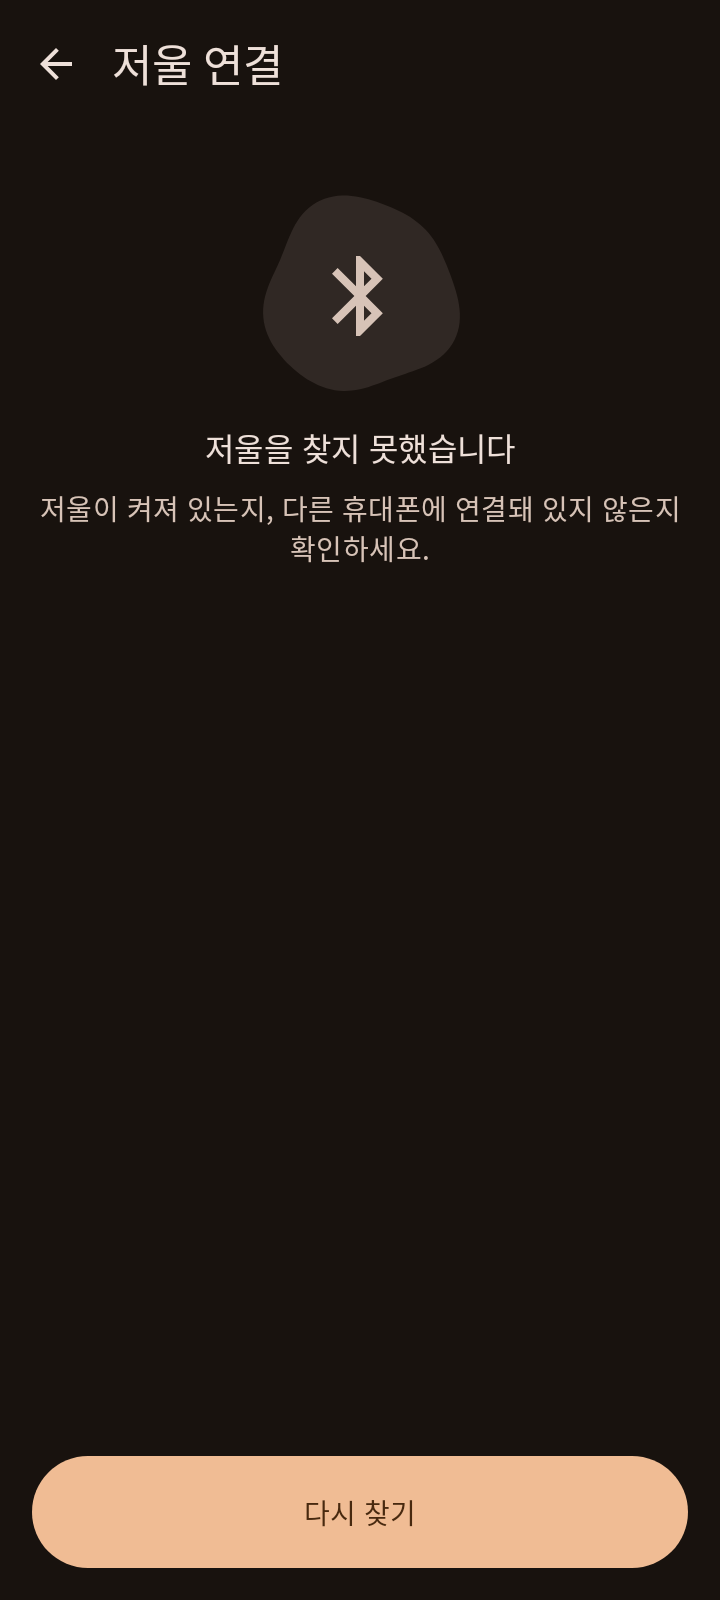
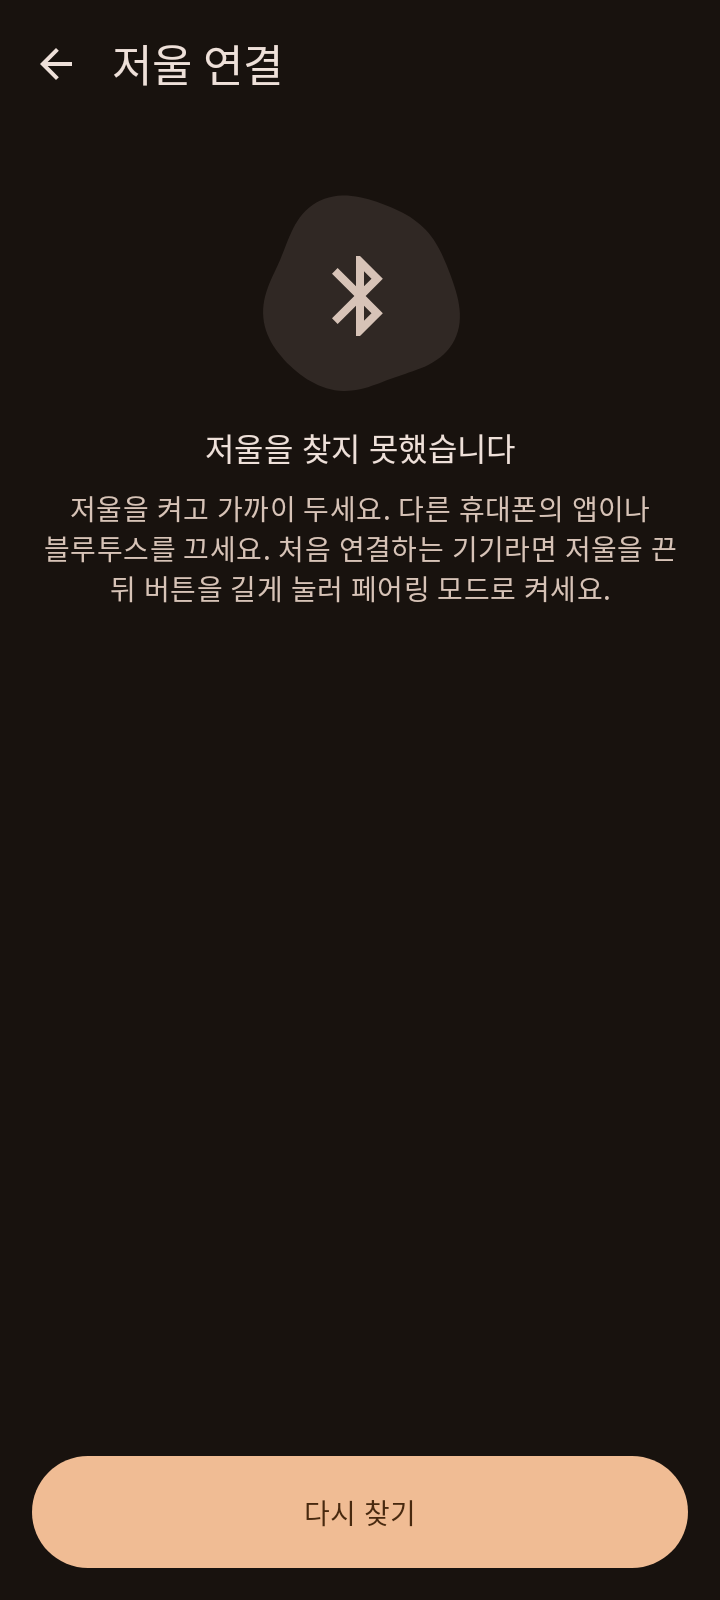
fix(ble): 검색 결과가 없을 때 필터 없는 스캔으로 전환하고 안내 문구 추가
- 오프로드 필터를 지원하지 않는 기기는 처음부터 필터 없이 스캔하고 앱 판정(서비스 UUID FFF0 또는 제조사 0xFFFF)으로 거른다. 지원 기기는 6초간 후보가 없으면 필터 없는 스캔으로 전환한다(FIX-10, 방어 코드 — 실기기에서는 아직 실행되지 않음).
- 스캔 시작·전환·종료(결과 수)를 TimemoreBle 로그로 남긴다.
- 검색 결과 없음 화면에 다른 휴대폰 앱·블루투스 끄기와 페어링 모드 안내를 추가한다.
- 실기기 결과 추가: Fold8(Android 17) 수정판 재확인(들어 올림·붓기·유량·권한 2건 통과), Lenovo TB-9707F(Android 12) 검색·연결 통과. 앞선 검색 0건은 다른 기기가 저울을 잡고 있던 상태로 추정하며 가설을 정정해 기록.

검증: 단위 테스트 689건(debug+release 합계) 통과, verifyRoborazziDebug·lint 통과.

Changed region(s): [[0.0611, 0.3125, 0.9472, 0.375]]

diff --git a/core/ble/src/main/kotlin/com/timemoredot/ble/BleScaleClient.kt b/core/ble/src/main/kotlin/com/timemoredot/ble/BleScaleClient.kt
@@ -110,6 +110,8 @@ class BleScaleClient internal constructor(
     private var scannerRunning = false
     private var lastScanStartNanos: Long? = null
     private val advLogged = mutableSetOf<String>()
+    private var scanHits = 0                  // 이번 스캐너 시작 뒤 받은 결과 수(후보 아닌 것 포함), 진단 로그용
+    private var unfilteredScan = false        // F-TAB-1: 한 번 전환하면 이 프로세스 동안 필터 없이. 매 스캔 재시작으로 30 s 5회 제한을 넘지 않게
 
     init {
         _connection.value = blockedState(forScan = true) ?: ConnectionState.Idle   // 5.4: 생성 때 블루투스·권한·위치 확인
@@ -198,18 +200,21 @@ class BleScaleClient internal constructor(
         advLogged.clear()
         _connection.value = ConnectionState.Scanning
         scanJob = scope.launch {
-            // 30 s에 5회 제한(android-ble 2절): 직전 실제 시작 6 s 안이면 늦춘다
-            lastScanStartNanos?.let { delay((it + SCAN_RESTART_GAP_NANOS - clock.nowNanos()) / NANOS_PER_MS) }
-            lastScanStartNanos = clock.nowNanos()
-            try {
-                scannerRunning = true
-                scanner.start(::onScanHit, ::onScanFailed)
-            } catch (e: SecurityException) {
-                scannerRunning = false
-                _connection.value = ConnectionState.PermissionMissing
-                return@launch
+            // 6절 F-TAB-1: 오프로드 필터가 없거나 이미 전환했으면 처음부터 필터 없이
+            val filtered = !unfilteredScan && scanner.offloadedFilteringSupported
+            if (!launchScanner(filtered)) return@launch
+            if (filtered) {
+                delay(SCAN_FALLBACK_MS)
+                if (_scanResults.value.isEmpty()) {
+                    log { FrameLogFormat.ev("scan switch filter=off: 필터 스캔 ${SCAN_FALLBACK_MS} ms 후보 0") }
+                    unfilteredScan = true
+                    haltScanner()
+                    if (!launchScanner(filtered = false)) return@launch
+                }
+                delay(SCAN_DURATION_MS - SCAN_FALLBACK_MS)
+            } else {
+                delay(SCAN_DURATION_MS)
             }
-            delay(SCAN_DURATION_MS)
             stopScanner()
             _connection.value = if (_scanResults.value.isEmpty()) ConnectionState.Failed(FailureReason.NoDeviceFound) else ConnectionState.Idle
         }
@@ -220,11 +225,34 @@ class BleScaleClient internal constructor(
         if (_connection.value == ConnectionState.Scanning) _connection.value = ConnectionState.Idle
     }
 
+    /** 30 s에 5회 제한(android-ble 2절): 직전 실제 시작 6 s 안이면 늦춘다. 권한이 없으면 false. */
+    private suspend fun launchScanner(filtered: Boolean): Boolean {
+        lastScanStartNanos?.let { delay((it + SCAN_RESTART_GAP_NANOS - clock.nowNanos()) / NANOS_PER_MS) }
+        lastScanStartNanos = clock.nowNanos()
+        scanHits = 0
+        log { FrameLogFormat.ev("scan start filter=${if (filtered) "on" else "off"} offload=${scanner.offloadedFilteringSupported}") }
+        try {
+            scannerRunning = true
+            scanner.start(filtered, ::onScanHit, ::onScanFailed)
+        } catch (e: SecurityException) {
+            scannerRunning = false
+            _connection.value = ConnectionState.PermissionMissing
+            return false
+        }
+        return true
+    }
+
     private fun stopScanner() {
         scanJob?.cancel()
         scanJob = null
+        haltScanner()
+    }
+
+    /** 스캔 작업은 두고 스캐너만 멈춘다(전환에서도 쓴다). */
+    private fun haltScanner() {
         if (!scannerRunning) return
         scannerRunning = false
+        log { FrameLogFormat.ev("scan stop hits=$scanHits candidates=${_scanResults.value.size}") }
         try {
             scanner.stop()
         } catch (e: SecurityException) {
@@ -234,6 +262,7 @@ class BleScaleClient internal constructor(
 
     private fun onScanHit(hit: ScanHit) {
         if (!scannerRunning) return
+        scanHits++
         val adv = hit.advertisement
         if (!isScaleCandidate(adv)) return   // 필터 구현 차이 방어
         if (advLogged.add(hit.address)) {
@@ -564,6 +593,7 @@ class BleScaleClient internal constructor(
         const val GATT_OP_TIMEOUT_MS = 5_000L
         const val SCAN_DURATION_MS = 10_000L
         const val SCAN_RESTART_GAP_NANOS = 6_000_000_000L
+        const val SCAN_FALLBACK_MS = 6_000L   // 재시작 간격(6 s)과 같게 해 전환이 늦춰지지 않는다
         const val NANOS_PER_MS = 1_000_000L
         const val MAX_RECONNECT_ATTEMPTS = 10
         const val GATT_ERROR_133 = 133

diff --git a/core/ble/src/test/kotlin/com/timemoredot/ble/BleScanTest.kt b/core/ble/src/test/kotlin/com/timemoredot/ble/BleScanTest.kt
@@ -96,6 +96,58 @@ class BleScanTest {
         assertTrue(!h.scanner.running)
     }
 
+    // F-TAB-1: 오프로드 필터 미지원(Lenovo TB-9707F, mMaxScanFilters 0)은 처음부터 필터 없이, 거르기는 isScaleCandidate
+    @Test fun offloadUnsupportedScansUnfilteredAndFiltersInApp() = runTest {
+        val h = Harness(this)
+        h.scanner.offloadedFilteringSupported = false
+        h.client.startScan()
+        runCurrent()
+        assertEquals(listOf(false), h.scanner.startFiltered)
+        assertTrue(h.logs.contains("EV scan start filter=off offload=false"))
+        h.scanner.hit(ADDR_B, name = "Headphones", mfr = null)                            // 다른 기기: 버림
+        h.scanner.hit(ADDR_A, name = "TIMEMORE_Dot", mfr = null, uuids = listOf(SCALE_SERVICE_UUID))   // (a) 서비스 UUID
+        assertEquals(listOf(ADDR_A), h.client.scanResults.value.map { it.address })
+        h.advance(10_000)
+        assertEquals(ConnectionState.Idle, h.state)
+        assertEquals(listOf(false), h.scanner.startFiltered)   // 전환 없음
+        assertTrue(h.logs.contains("EV scan stop hits=2 candidates=1"))
+    }
+
+    @Test fun filteredScanWithoutCandidateSwitchesToUnfilteredAt6s() = runTest {
+        val h = Harness(this)
+        h.client.startScan()
+        runCurrent()
+        h.advance(5_999)
+        assertEquals(listOf(true), h.scanner.startFiltered)
+        h.advance(1)
+        assertEquals(listOf(true, false), h.scanner.startFiltered)
+        assertEquals(listOf(0L, 6_000L), h.scanner.startTimesMs)   // 재시작 간격 6 s를 지킨다
+        assertTrue(h.logs.contains("EV scan stop hits=0 candidates=0"))
+        assertTrue(h.logs.any { it.startsWith("EV scan switch filter=off") })
+        assertTrue(h.scanner.running)
+        h.scanner.hit(ADDR_A, null)   // (b) 제조사 01 01
+        h.advance(4_000)
+        assertEquals(ConnectionState.Idle, h.state)
+        assertEquals(1, h.client.scanResults.value.size)
+        // 한 번 전환하면 다음 스캔은 처음부터 필터 없이(재시작 1회로 끝)
+        h.client.startScan()
+        h.advance(12_000)   // 직전 시작(6 s)에서 6 s 뒤인 12 s에 시작해 22 s에 끝난다
+        assertEquals(listOf(true, false, false), h.scanner.startFiltered)
+        assertEquals(listOf(0L, 6_000L, 12_000L), h.scanner.startTimesMs)
+        assertEquals(ConnectionState.Failed(FailureReason.NoDeviceFound), h.state)
+    }
+
+    @Test fun filteredScanWithCandidateDoesNotSwitch() = runTest {
+        val h = Harness(this)
+        h.client.startScan()
+        runCurrent()
+        h.advance(1_000)
+        h.scanner.hit(ADDR_A, null)
+        h.advance(9_000)
+        assertEquals(listOf(true), h.scanner.startFiltered)
+        assertEquals(ConnectionState.Idle, h.state)
+    }
+
     @Test fun scanEndsIdleWithCandidates() = runTest {
         val h = Harness(this)
         h.client.startScan()

diff --git a/core/ble/src/main/kotlin/com/timemoredot/ble/BleScanner.kt b/core/ble/src/main/kotlin/com/timemoredot/ble/BleScanner.kt
@@ -20,7 +20,10 @@ internal data class ScanHit(val address: String, val rssi: Int, val advertisemen
 /** 스캐너 경계. 테스트는 가짜를 쓴다. 권한이 없으면 SecurityException을 던진다(BleScaleClient가 PermissionMissing으로 바꾼다).
  *  콜백은 메인 스레드에서 온다(ScanCallback 기본). */
 internal interface BleScanner {
-    fun start(onResult: (ScanHit) -> Unit, onFailed: (Int) -> Unit)
+    /** BluetoothAdapter.isOffloadedFilteringSupported. false인 기기(Lenovo TB-9707F)는 필터 스캔 결과가 0건이었다(F-TAB-1). */
+    val offloadedFilteringSupported: Boolean
+    /** filtered = false면 필터 없이 스캔한다. 거르기는 BleScaleClient의 isScaleCandidate가 한다. */
+    fun start(filtered: Boolean, onResult: (ScanHit) -> Unit, onFailed: (Int) -> Unit)
     fun stop()
 }
 
@@ -37,16 +40,20 @@ internal fun scaleScanFilters(): List<ScanFilter> = listOf(
 internal class AndroidBleScanner(private val context: Context) : BleScanner {
     private var callback: ScanCallback? = null
 
-    private fun leScanner() = context.getSystemService(BluetoothManager::class.java)?.adapter?.bluetoothLeScanner
+    private fun adapter() = context.getSystemService(BluetoothManager::class.java)?.adapter
+    private fun leScanner() = adapter()?.bluetoothLeScanner
 
-    override fun start(onResult: (ScanHit) -> Unit, onFailed: (Int) -> Unit) {
+    override val offloadedFilteringSupported: Boolean get() = adapter()?.isOffloadedFilteringSupported == true
+
+    override fun start(filtered: Boolean, onResult: (ScanHit) -> Unit, onFailed: (Int) -> Unit) {
         val scanner = leScanner() ?: return onFailed(-1)   // 블루투스 꺼짐
         val cb = object : ScanCallback() {
             override fun onScanResult(callbackType: Int, result: ScanResult) = onResult(result.toHit())
             override fun onScanFailed(errorCode: Int) = onFailed(errorCode)
         }
         val settings = ScanSettings.Builder().setScanMode(ScanSettings.SCAN_MODE_LOW_LATENCY).build()
-        scanner.startScan(scaleScanFilters(), settings, cb)
+        // 필터 없는 스캔은 화면이 꺼지면 시스템이 멈춘다(Android 8.1+). 스캔은 S2 화면에서만 하므로 상관없다
+        scanner.startScan(if (filtered) scaleScanFilters() else null, settings, cb)
         callback = cb
     }
 

diff --git a/app/src/main/java/com/timemoredot/app/ui/connect/ConnectScreen.kt b/app/src/main/java/com/timemoredot/app/ui/connect/ConnectScreen.kt
@@ -220,7 +220,8 @@ private fun Header(
         ConnectionUi.LocationOff -> EmptyState(AppIcons.BluetoothDisabled, "위치 서비스를 켜야 저울을 찾을 수 있습니다", actionLabel = "위치 설정 열기", onAction = onOpenLocationSettings)
         ConnectionUi.ScanEmpty -> EmptyState(
             AppIcons.Bluetooth, "저울을 찾지 못했습니다",
-            description = "저울이 켜져 있는지, 다른 휴대폰에 연결돼 있지 않은지 확인하세요.",
+            // F-TAB-2: 다른 폰이 연결을 잡고 있거나 화이트리스트 방송이면 새 기기에서는 보이지 않는다
+            description = "저울을 켜고 가까이 두세요. 다른 휴대폰의 앱이나 블루투스를 끄세요. 처음 연결하는 기기라면 저울을 끈 뒤 버튼을 길게 눌러 페어링 모드로 켜세요.",
         )
         ConnectionUi.ScanFailed -> StatusBanner(BannerKind.Error, "찾기를 시작하지 못했습니다. 블루투스를 껐다 켜 보세요.", pad)
         ConnectionUi.NoDevice, ConnectionUi.Disconnected -> Hint("저울을 켜고 휴대폰 가까이 둔 뒤 찾기를 누르세요.")

diff --git a/core/ble/src/test/kotlin/com/timemoredot/ble/Fakes.kt b/core/ble/src/test/kotlin/com/timemoredot/ble/Fakes.kt
@@ -153,15 +153,18 @@ internal class FakeEnvironment : BleEnvironment {
 
 internal class FakeScanner(private val nowMs: () -> Long) : BleScanner {
     val startTimesMs = mutableListOf<Long>()
+    val startFiltered = mutableListOf<Boolean>()
+    override var offloadedFilteringSupported = true
     var running = false
         private set
     var throwSecurity = false
     private var onResult: ((ScanHit) -> Unit)? = null
     private var onFailed: ((Int) -> Unit)? = null
 
-    override fun start(onResult: (ScanHit) -> Unit, onFailed: (Int) -> Unit) {
+    override fun start(filtered: Boolean, onResult: (ScanHit) -> Unit, onFailed: (Int) -> Unit) {
         if (throwSecurity) throw SecurityException("scan")
         startTimesMs += nowMs()
+        startFiltered += filtered
         running = true
         this.onResult = onResult
         this.onFailed = onFailed

diff --git a/core/ble/src/debug/kotlin/com/timemoredot/ble/demo/DemoScale.kt b/core/ble/src/debug/kotlin/com/timemoredot/ble/demo/DemoScale.kt
@@ -52,8 +52,9 @@ object DemoScale {
 /** 300 ms 뒤 DemoScenario 6개를 광고 하나씩으로 낸다(isScaleCandidate (b)를 지난다). 콜백은 scope 디스패처. */
 internal class DemoScanner(private val scope: CoroutineScope) : BleScanner {
     private var job: Job? = null
+    override val offloadedFilteringSupported = true
 
-    override fun start(onResult: (ScanHit) -> Unit, onFailed: (Int) -> Unit) {
+    override fun start(filtered: Boolean, onResult: (ScanHit) -> Unit, onFailed: (Int) -> Unit) {
         job?.cancel()
         job = scope.launch {
             delay(300)

diff --git a/docs/spec/ui-design.md b/docs/spec/ui-design.md
@@ -163,7 +163,7 @@ S9 상단 바 "CSV 내보내기"(`download`) → `ACTION_CREATE_DOCUMENT`(파일
 - 왼쪽 칸(남은 가로의 50%): 상태 줄, 위 배너(`Idle`), 무게(밸브 칸이 있으면 무게 줄 왼쪽에. 배치 판정은 왼쪽 칸 안쪽 너비로 한다, 4.11), 지표 줄을 `verticalScroll` 열에 넣고, 그 아래에 아래 배너(7a)와 동작 줄을 고정한다. 동작 줄은 왼쪽 칸 맨 아래에 붙는다. 가로 360 × 800 기기의 세로 높이(약 336 dp)는 배너 없이 글꼴 1.0에서도 왼쪽 칸 내용(약 360 dp)보다 작으므로, 무게 영역이 스크롤 열의 남은 높이를 받아(최소 72 dp) 무게 글자 크기를 너비와 함께 높이로도 4 sp씩 줄인다(최소 40 sp, 남는 높이에서는 가운데). 그래서 추출 중 두 번째로 중요한 타이머 값이 글꼴 1.0에서 스크롤 없이 보인다(2026-10-30 디자인 검증). 글꼴 확대로 그래도 넘치면 스크롤로 받는다. `NavigationRail` 쪽 여백을 줄여 맞추지 않는다.
   - 지표 크기 상한(2026-11-02 사용자 결정): 왼쪽 칸의 타이머·유량 값은 4.3 너비 기준 크기에 상한 24 sp를 둔다(20~24 sp에서 고른다). 밸브 칸 유무와 관계없이 같은 24 sp다. 근거는 D1 무게 우선 위계다: 무게가 높이로 최소 40 sp까지 줄어도 지표보다 1.5배 이상 크게 남는다(40 ÷ 24 = 1.67. 세로 배치는 84 sp : 36 sp). 지표 줄 높이는 글자 크기에 비례한다(1.22 em, 4.3).
   - 밸브 칸이 있을 때도 무게 숫자에 위 높이 기준 축소를 똑같이 적용하고 s′ ≤ s₀를 지킨다(s′ = 칸이 있을 때 무게 크기, s₀ = 같은 창·같은 글꼴에서 칸이 없을 때 고를 무게 크기, 4.2 "밸브 칸이 있을 때"). 칸 때문에 모자라는 높이를 지표를 20 sp로 줄여 메우지 않는다. 줄이면 남은 높이를 무게가 받아, 칸이 있을 때 무게는 커지고 타이머는 작아져 무게와 타이머의 크기 관계가 밸브 유무로 뒤집힌다(M8 디자인 리뷰). 무게 영역 최소 높이는 칸이 없으면 72 dp, 밸브 칸·띠가 있으면 무게 영역이 알린 값(4.11 넓은 창)과 72 dp 중 큰 값이다.
-  - 밸브 칸은 이 왼쪽 칸에서 한 줄 모양(아이콘·상태 글자 한 줄 + 안내 줄, 칸 내용 76 dp, 4.11 "넓은 창 칸 안")이다(2026-11-02 P1, 하네스 추천(잠정, 사용자 최종 검토 대기)). 그래서 가로 800 × 360·글꼴 1.0에서 칸 내용이 칸 없을 때 무게 영역이 받는 높이(약 82 dp)보다 작아 무게 영역이 칸 없을 때와 같은 높이를 받고, 타이머·유량 값 아래 끝은 칸이 없을 때와 같은 약 260 dp로 보이는 끝 272 dp(동작 줄 위 끝) 안에 든다. 계산은 4.11 "넓은 창 높이 계산".
+  - 밸브 칸은 이 왼쪽 칸에서 한 줄 모양(아이콘·상태 글자 한 줄 + 안내 줄, 칸 내용 76 dp, 4.11 "넓은 창 칸 안")이다(2026-11-02 P1, 사용자 확정 2026-11-03). 그래서 가로 800 × 360·글꼴 1.0에서 칸 내용이 칸 없을 때 무게 영역이 받는 높이(약 82 dp)보다 작아 무게 영역이 칸 없을 때와 같은 높이를 받고, 타이머·유량 값 아래 끝은 칸이 없을 때와 같은 약 260 dp로 보이는 끝 272 dp(동작 줄 위 끝) 안에 든다. 계산은 4.11 "넓은 창 높이 계산".
 - 오른쪽 칸: 모양 자리(3.1 6번: `Idle`·`WaitingForPour` = 서버, `Running`·`Paused` = 리본 그래프), 그 아래 단계 카드. 모양 자리는 남은 높이를 채우고(최소 120 dp), 모자라면 오른쪽 칸도 `verticalScroll`.
 - 스낵바는 왼쪽 칸 동작 줄 위에 뜨게 왼쪽 칸 안에 `SnackbarHost`를 둔다.
 
@@ -522,7 +522,7 @@ S1 `Idle`·`WaitingForPour`에서는 이 그래프 대신 서버(4.10)를 그린
 - 칸 높이 = max(칸 내용 높이, 무게 숫자 줄 높이 + 아래 줄 24 dp). 무게 영역의 측정 높이를 그대로 받는 세로 배치와 달리, 칸 내용이 숫자 줄보다 높으면 칸 높이를 따른다. 칸 내용 높이는 아래 "넓은 창 칸 안"의 값이다(한 줄 모양 글꼴 1.0에서 76 dp, 한 줄이 들어가지 않으면 세로 쌓기 104 dp).
 - 무게 영역은 자기 최소 높이를 부모에게 알리고(`WeightArea`의 `onMinHeight`, dp), 왼쪽 칸 스크롤 열은 그 값과 72 dp 중 큰 값을 채움 자식(무게 영역)의 최소 높이로 쓴다(3.2). 알리는 값: 옆 칸이면 max(칸 내용 높이, 40 sp 숫자 줄 높이 + 24 dp), 띠면 40 sp 숫자 줄 높이 + 24 dp + 8 dp + 띠 높이, 밸브가 없으면 0(그때는 72 dp).
 
-넓은 창 칸 안(높이가 정해진 왼쪽 칸에서만, 2026-11-02 P1, 하네스 추천(잠정, 사용자 최종 검토 대기)). 세로 배치(3.1)의 칸 안과 띠 배치는 바꾸지 않는다. 칸 폭 64 dp·칸과 숫자 사이 8 dp·안쪽 여백(위아래 8 dp, 좌우 4 dp → 내용 폭 56 dp)·모양·색·테두리·색 숨은 옆 칸과 같다. 내용(위에서 아래, 가로 가운데, 남는 높이는 위아래로 나눔):
+넓은 창 칸 안(높이가 정해진 왼쪽 칸에서만, 2026-11-02 P1, 사용자 확정 2026-11-03). 세로 배치(3.1)의 칸 안과 띠 배치는 바꾸지 않는다. 칸 폭 64 dp·칸과 숫자 사이 8 dp·안쪽 여백(위아래 8 dp, 좌우 4 dp → 내용 폭 56 dp)·모양·색·테두리·색 숨은 옆 칸과 같다. 내용(위에서 아래, 가로 가운데, 남는 높이는 위아래로 나눔):
 1. 한 줄 `Row`(가운데 정렬, 세로 가운데): 아이콘 20 dp(`valve_closed`/`valve_open`, 같은 벡터를 20 dp로 그림, 선 2 → 약 1.67 dp) + 2 dp + 상태 글자 `titleMedium`(16 sp / 24, 500) "닫힘"/"열림", `maxLines = 1`. 줄 높이 = max(20, 24) = 24 dp
 2. 4 dp
 3. 안내 줄 `labelMedium`(12 sp / 16, 500, tnum), 가운데 정렬, 최대 2줄(`WordBreak.Phrase`). 문구·줄바꿈은 옆 칸 표 그대로
@@ -545,7 +545,7 @@ S1 `Idle`·`WaitingForPour`에서는 이 그래프 대신 서버(4.10)를 그린
 | 채택안 | (1) 한 줄. 높이가 정해진 넓은 창에서만, 한 줄이 56 dp에 들어갈 때만 |
 | 근거 | M8 남은 지적(wf_f65760f7-857): 타이머 아래 끝 282 > 보이는 끝 272(10 dp 넘침). 한 줄은 28 dp를 되찾아 칸이 없을 때와 같은 260 dp가 되고, 지표 24 sp 상한·무게 우선·s′ ≤ s₀(사용자 결정 2026-11-02)·칸 폭·색·낭독을 바꾸지 않는다. (2)는 여유 2 dp라 글자 높이 오차에 약하다. (3)·(4)는 칸 모양이나 확정 기대를 바꾼다 |
 | 되돌리는 비용 | 낮음: 이 단락과 3.2 한 줄, `ValveCell` 배치 분기 하나(높이가 정해졌을 때 `Row`), `WeightArea` 칸 내용 높이 계산, 스크린샷 `brew_running_valve_landscape` 다시 기록 |
-| 판단 | 하네스 추천(잠정, 사용자 최종 검토 대기), `_workspace/run_meta.json` P1 |
+| 판단 | 사용자 확정 2026-11-03, `_workspace/run_meta.json` P1 |
 
 접근성 유지: 칸 노드의 `contentDescription`(8.2 "레시피 안내, …" 문구)·읽기 순서(무게 → 밸브, 8.5)·바꾸는 순간 Assertive 알림(8.3)은 배치와 관계없이 같다(낭독은 칸 노드 하나가 하고 아이콘은 `contentDescription = null`). 칸은 누르는 요소가 아니라 터치 영역 기준(D3, 48 dp)의 대상이 아니고, 칸 높이 80.3 dp라 띠 최소 높이 48 dp보다도 크다. 색 쌍은 같으므로 7.4 대비 그대로다(아이콘 3:1·글자 4.5:1 기준은 크기와 무관하다. 아이콘 20 dp에서도 "막대 / 물방울" 모양 차이와 상태 글자가 함께 상태를 전달한다, D4).
 
@@ -651,7 +651,7 @@ S1 `Idle`·`WaitingForPour`에서는 이 그래프 대신 서버(4.10)를 그린
 | `Scanning`, 결과 0개 | 진행 표시줄 + 안내문 "저울을 찾는 중…" | "찾기 멈춤" |
 | `Scanning`, 결과 있음 | 진행 표시줄 + 목록 | 항목 탭, "찾기 멈춤" |
 | `Scanning(stopped = true)`, 결과 있음 | 목록 유지 | 항목 탭, "다시 찾기" |
-| `ScanEmpty` | 빈 상태 "저울을 찾지 못했습니다", 설명 "저울이 켜져 있는지, 다른 휴대폰에 연결돼 있지 않은지 확인하세요." | "다시 찾기" |
+| `ScanEmpty` | 빈 상태 "저울을 찾지 못했습니다", 설명 "저울을 켜고 가까이 두세요. 다른 휴대폰의 앱이나 블루투스를 끄세요. 처음 연결하는 기기라면 저울을 끈 뒤 버튼을 길게 눌러 페어링 모드로 켜세요."(F-TAB-2, 2026-11-03 하네스 추천(잠정, 사용자 최종 검토 대기): 저울은 다른 휴대폰에 연결돼 있거나 화이트리스트 방송이면 새 기기에서 보이지 않는다. S1 `ScanEmpty`(5.1)는 짧은 설명 그대로 두고 "저울 찾기"로 이 화면에 온다) | "다시 찾기" |
 | `ScanFailed`(시스템 스캔 오류) | 오류 배너 "찾기를 시작하지 못했습니다. 블루투스를 껐다 켜 보세요." | "다시 찾기" |
 | `Connecting(item)` | 후보 목록(`candidates`) 유지. 해당 항목 뒤 진행 원, 보조 문구 "연결 중…", 다른 항목 비활성 | "취소"(`disconnect()` → `Idle`. 후보가 남아 있으므로 `Scanning(stopped = true)` 행: 목록 유지, 모든 항목 활성, "다시 찾기". architecture 9.2) |
 | `Reconnecting`(S2가 열린 채 저장된 저울로 자동 연결: 블루투스를 다시 켬 등, architecture 6절) | 목록 위 진행 배너(`sync`) "저장된 저울에 다시 연결하는 중입니다." 후보 목록(`candidates`) 유지, 모든 항목 비활성(`Connecting`과 같음) | "취소"(`disconnect()`, 사용자 끊기 → 후보가 남아 있으면 `Scanning(stopped = true)` 행, 없으면 `Disconnected` 행(architecture 9.2). 그 뒤 다시 찾기·항목 탭 가능). 성공하면 `Connected` 행(S2를 닫고 S1) |
@@ -721,7 +721,7 @@ D2 미저장 추출 복구: "10월 28일 08:12에 시작한 3분 4초 추출이 
 - 단계 이름 최대 36자(악마의 레시피 2단계). 2026-10-29판의 53자 이름 둘(하리오 1단계, 악마 3단계)은 단계를 나누며 시각·동작을 뒤 단계로 옮겨 줄었다(architecture 8.3). 단계 카드(4.5)는 이름을 줄바꿈하고 자르지 않는다. S8 단계 이름 필드는 여러 줄(3.6), S10 단계 표는 단계마다 두 줄(3.7)이다.
 - 이름 앞의 "0:40" 같은 시각은 붓기 *시작* 시각이고, 목표 시각 열(`targetAtSec`)은 그 붓기가 끝날 목표다(architecture 8.3 변환 규칙). 단계 카드 3줄 "140 g까지 · 0:50까지"는 목표 시각을 보이므로 이름 속 시각과 다르다. 의도된 차이다.
 - 기다리기 단계(V60 2, 6888 2, 하리오 2·3, 악마 3·5·6)는 누적 g가 앞 단계와 같다. S1 단계 카드는 엔진 무게 판정으로 이 단계를 건너뛴다(architecture 7.2·8.3): V60 1 → 3(1/3 → 3/3), 6888 1 → 3 → 4 → 5(1/5 → 3/5 → 4/5 → 5/5), 하리오 1 → 3, 악마 1 → 2 → 4 → 6. 건너뛰는 단계의 시각·동작은 다음 단계 이름("0:40 …", "1:15 …", "1:45 …", "2:00 …")에 있고, 건너뛰기 직전 카드 5줄이 "다음: 0:40까지 기다리기"(V60·6888 1단계)·"다음: 1:15까지 기다리기"(악마 2단계)를 보인다(4.5).
-- V60 기본·6888의 기다리기 단계(2026-11-02 P2, 하네스 추천(잠정, 사용자 최종 검토 대기), `_workspace/run_meta.json` P2): 뜸 붓기(0:10까지 60 g) 뒤 0:40까지 기다리는 구간이 목표선의 평평한 구간(0:10~0:40, 60 g)으로 보이고, 2차 붓기 목표선은 0:40부터 오른다. 전에는 목표선이 0:10부터 바로 올라 뜸을 지시대로 기다려도 단계 카드 4줄에 "22초 늦음" 같은 시간 차가 떴다. 표식은 기다리기 꼭짓점에 그리지 않으므로(4.4·4.10) 표식 수는 V60 2개(60·250 g), 6888 4개(60·140·220·300 g)로 그대로다. 끝 시각(V60 1:30, 6888 2:45)·마지막 단계 누적 g(250·300 g)도 그대로다. 표시 규칙은 기존 4.4·4.5 기다리기 단계 규칙을 그대로 쓴다. 1단계 이름("30초 기다리기"·"0:40까지 기다리기")은 바꾸지 않는다(architecture 8.3 원본 데이터). 앱이 배포 전이라 시드 데이터만 바꾸고 DB 이전은 없다(architecture 8.3이 원본, architect가 같은 날 고친다). 마지막 단계(하리오 3, 악마 6)도 기다리기 단계라, 마지막 붓기 뒤에는 그 이름(스위치 열기, 추출 끝)과 "기다리는 중 · 2:30에 끝"이 보인다. 드리퍼와 서버를 함께 올린 저울에서는 붓기 직후 무게가 바로 멈추므로(빠지는 물도 저울 위에 있다), 자동 완료는 레시피 끝 시각이 지난 뒤에만 판정한다(사용자 결정 2026-10-29, 2.3).
+- V60 기본·6888의 기다리기 단계(2026-11-02 P2, 사용자 확정 2026-11-03, `_workspace/run_meta.json` P2): 뜸 붓기(0:10까지 60 g) 뒤 0:40까지 기다리는 구간이 목표선의 평평한 구간(0:10~0:40, 60 g)으로 보이고, 2차 붓기 목표선은 0:40부터 오른다. 전에는 목표선이 0:10부터 바로 올라 뜸을 지시대로 기다려도 단계 카드 4줄에 "22초 늦음" 같은 시간 차가 떴다. 표식은 기다리기 꼭짓점에 그리지 않으므로(4.4·4.10) 표식 수는 V60 2개(60·250 g), 6888 4개(60·140·220·300 g)로 그대로다. 끝 시각(V60 1:30, 6888 2:45)·마지막 단계 누적 g(250·300 g)도 그대로다. 표시 규칙은 기존 4.4·4.5 기다리기 단계 규칙을 그대로 쓴다. 1단계 이름("30초 기다리기"·"0:40까지 기다리기")은 바꾸지 않는다(architecture 8.3 원본 데이터). 앱이 배포 전이라 시드 데이터만 바꾸고 DB 이전은 없다(architecture 8.3이 원본, architect가 같은 날 고친다). 마지막 단계(하리오 3, 악마 6)도 기다리기 단계라, 마지막 붓기 뒤에는 그 이름(스위치 열기, 추출 끝)과 "기다리는 중 · 2:30에 끝"이 보인다. 드리퍼와 서버를 함께 올린 저울에서는 붓기 직후 무게가 바로 멈추므로(빠지는 물도 저울 위에 있다), 자동 완료는 레시피 끝 시각이 지난 뒤에만 판정한다(사용자 결정 2026-10-29, 2.3).
 
 스위치(단계 `valveOpen`, 4.11. 원본은 architecture 8.3 밸브 표): 위 표 [닫힘]·[열림]. 파생 일정 "하리오 스위치 기본" [(0:00 닫힘), (2:00 열기)], "테츠 카스야 악마의 레시피" [(0:00 열림), (1:15 닫기), (1:45 열기)]로 2026-10-29판과 같다. 나머지 셋은 모든 단계 null(밸브 없음, 칸 없음, S8 스위치 꺼짐). 단계 이름 속 "스위치 닫고"·"2:00 스위치 눌러 열고"는 그대로 둔다(사용자 데이터, 칸과 같은 내용을 글로도 보인다).
 
@@ -1364,7 +1364,7 @@ S1 알림:
   - `recipe_edit_valve_off`(같은 하리오에서 스위치 끔: 카드에 스위치 칸·넣기 없음, "2단계 · 기다리기"는 남음).
   - `recipe_edit_step_error`(`StepGramsDecreasing` + `StepTimeNotIncreasing` 한 카드: 3a 오류 줄 두 줄이 296 dp 폭에서 감기고 누적·분·초 칸 `isError`).
   - `recipe_edit_valve_light_font200`(수치 줄 두 줄, 분·초 128 dp, 열림/닫힘 칸 글자 잘림 없음, 넣기 버튼 두 줄).
-- 2026-11-02 P1·P2(하네스 추천(잠정, 사용자 최종 검토 대기)), 다시 기록:
+- 2026-11-02 P1·P2(사용자 확정 2026-11-03), 다시 기록:
   - P1: `brew_running_valve_landscape`(위 밸브 칸 목록의 기대, 4.11 넓은 창 칸 안). 세로 `brew_*_valve*`·`brew_running_valve_light_font200`(띠)은 배치가 바뀌지 않으므로 픽셀이 같아야 한다.
 - 2026-11-02 P6(하네스 추천(잠정, 사용자 최종 검토 대기)), 다시 기록(각 `_light`·`_dark`): 기다리기 구간 목표 점선 덧그림(4.4)을 밸브 레시피에도 넣어 픽셀이 바뀌는 그래프 장면. 위 P1 "세로 밸브 픽셀 같음" 조건은 P6 기록 뒤의 파일로 바꾼다.
   - 하리오 스위치 기본 Running(2단계 "2:00까지 담가 두기" 0:10~2:00 240 g 평평 구간이 현재 구간): `brew_running_valve`(t 60 s), `brew_running_valve_countdown`(t 116.0 s), `brew_running_valve_reduce_motion`, `brew_reconnecting_running_valve`, `brew_running_valve_landscape`, `brew_running_valve_light_font200`(그래프가 보이는 경우). 기대: 평평 구간이 리본·2.5 dp 실선 위에 `outline` 점선(대시 8/6, 현재 구간이라 3 dp)으로 보이고 대시가 앞 구간 점선과 위상이 이어짐. 붓기 구간(0:00~0:10)은 실제 실선이 위.
@@ -1437,8 +1437,8 @@ architecture 9.5~9.7과의 대응:
 | 배터리 경고 15% | 앱 규칙 | 실기기에서 배터리 Notify 조건(C-05-3) 확인 후 |
 | 그래프 위 밸브 표시 | 넣지 않는다(리본 그래프·서버에 밸브 이벤트 표식 없음). 칸·단계 이름·알림이 같은 정보를 준다 | 실사용 요청 시 |
 | 자동 완료 순간의 완료 모션(B + A, 2026-10-29) | 보이지 않음. 자동 완료(`AutoFinished`·`CapReached`)도 "완료"처럼 바로 S6로 간다. S6 요약판이 완료 상태(다 찬 서버, 원이 된 리본 끝)를 정지 그림으로 보인다 | 사용자 결정 2026-10-29: 바로 S6(닫힘) |
-| 가로(높이 제한) 밸브 칸 모양(P1, 2026-11-02) | 아이콘·상태 글자 한 줄 + 안내 줄, 칸 내용 76 dp(4.11 넓은 창 칸 안). 세로·띠는 그대로 | 하네스 추천(잠정, 사용자 최종 검토 대기) |
-| V60 기본·6888 기다리기 단계(P2, 2026-11-02) | 2단계로 "0:40까지 기다리기"(60 g, 0:40) 넣음, 시드만 고침(5.6) | 하네스 추천(잠정, 사용자 최종 검토 대기) |
+| 가로(높이 제한) 밸브 칸 모양(P1, 2026-11-02) | 아이콘·상태 글자 한 줄 + 안내 줄, 칸 내용 76 dp(4.11 넓은 창 칸 안). 세로·띠는 그대로 | 사용자 확정 2026-11-03 |
+| V60 기본·6888 기다리기 단계(P2, 2026-11-02) | 2단계로 "0:40까지 기다리기"(60 g, 0:40) 넣음, 시드만 고침(5.6) | 사용자 확정 2026-11-03 |
 | 리본 그래프 기다리기 구간 겹(P6, 2026-11-02) | 모든 레시피(밸브 포함)에서 기다리기 목표 점선을 실제 중심선 위에 덧그림, 현재 구간 2 + stepQ dp(4.4). 하리오·악마 그래프 장면 다시 기록(8.6) | 하네스 추천(잠정, 사용자 최종 검토 대기) |
 
 닫힌 항목(architecture.md 9.8과 사용자 결정, 2026-10-28):
@@ -1497,6 +1497,8 @@ architecture 9.5~9.7과의 대응:
 | 2026-11-02 | 3.2, 3.5, 4.5, 4.11, 5.6, 8.4, 8.6, 11 | 하네스 추천(잠정, 사용자 최종 검토 대기) P1·P2. P1: 높이가 정해진 넓은 창의 밸브 칸을 아이콘 20 dp + 2 dp + 상태 글자 한 줄, 그 아래 4 dp + 안내 줄 2줄로 바꿈(칸 내용 104 → 76 dp, 한 줄이 56 dp에 들 때만, 아니면 세로 쌓기). 800 × 360·글꼴 1.0에서 칸 높이 80.3 dp ≤ 칸 없을 때 무게 영역 약 82 dp라 타이머 아래 끝 282 → 약 260 dp(보이는 끝 272). 선택지·채택안·근거·되돌리는 비용 표, 높이 계산, `brew_running_valve_landscape` 기대 = 타이머·유량 값 전체가 첫 화면에 보임. 세로 배치·띠·폭 64 dp·색·낭독 그대로. P2: V60 기본·6888에 기다리기 단계 "0:40까지 기다리기"(60 g, 0:40) → S7 "3단계 · 끝 1:30"·"5단계 · 끝 2:45", 단계 카드 1/3 → 3/3·1/5 → 3/5 → 4/5 → 5/5, 표식 수·끝 시각 그대로, S7 행 낭독, 다시 기록 목록 | `_workspace/run_meta.json` P1·P2, `_workspace/03_report_wf_f65760f7-857.md` M8 남은 지적 |
 | 2026-11-02 | 4.4, 8.6, 11 | 하네스 추천(잠정, 사용자 최종 검토 대기) P6: 목표선 행(실선이 위)과 단계 표식 행(평평한 목표선이 보임)의 어긋남 해소. 그리기 순서를 리본 → 목표선 테두리 → 목표선 → 실제 중심선 → 기다리기 구간(`isWaitStep`) 목표 점선 덧그림(모든 레시피, 현재 구간 2 + stepQ dp, 요약판 2 dp)으로 정함. 선택지·채택안·근거·되돌리는 비용 한 줄, 하리오·악마 그래프 장면 다시 기록 목록, 11절 항목 | `_workspace/run_meta.json` P6, `_workspace/03_feature-engineer_FIX-6_impl.md`(valveOpen 제외 shortcut) |
 | 2026-11-03 | 0, 4.3, 5.1, 8.3, 10.1 | 프로브 B 반영(하네스 추천(잠정, 사용자 최종 검토 대기), architecture 2026-11-03): `Failed(PairingModeMaybe)` 상태·문구(S1 배너·S2·S3 공용, 단정하지 않는 조건문 "이 휴대폰으로 처음 연결한다면")와 낭독 "페어링 모드가 필요할 수 있음", 유량 숫자의 급감 규칙(무게가 샘플당 2 g 넘게 줄면 평균 창을 비움). 새 스크린샷 `connect_failed_pairing_mode_*`, `brew_failed_pairing_mode_*`, `device_sheet_failed_pairing_mode_*`. 권한 영구 거부 판정 변경(즉시 거부)은 화면·문구 변화 없음 | `_workspace/04_device_results.md` F-F5-1·O-B8-1 |
+| 2026-11-03 | 3.2, 4.11, 5.6, 8.6, 11 | P1(가로 밸브 칸 아이콘·상태 한 줄)·P2(V60·6888 기다리기 단계) 사용자 확정. 잠정 표시를 확정으로 바꿈. 내용 변경 없음 |
+| 2026-11-03 | 5.2 | F-TAB-2: S2 `ScanEmpty` 설명을 세 짧은 문장(켜고 가까이 · 다른 휴대폰의 앱·블루투스 끄기 · 처음이면 페어링 모드)으로 바꿈. 하네스 추천(잠정, 사용자 최종 검토 대기). 스크린샷 `connect_scan_empty_*` 다시 기록 | `_workspace/04_device_results.md` F-TAB-2 |
 
 ## 13. 프로토타입 값 판정(HyperFrames, 2026-10-29)
 

diff --git a/docs/spec/architecture.md b/docs/spec/architecture.md
@@ -445,7 +445,7 @@ class BleScaleClient(
 내부 구성(이름은 구현자 재량, 동작은 고정):
 
 - **작업 큐**: `Mutex` + `withTimeout(5_000)`. 서비스 탐색·MTU·디스크립터·쓰기·읽기를 한 번에 하나. 대기 중인 작업은 종류(`DiscoverServices`·`Mtu`·`DescriptorWrite`·`CharacteristicWrite`·`CharacteristicRead`)를 기록하고, 콜백은 종류가 같을 때만 그 작업을 완료한다. 대기 작업이 없거나 종류가 다른 콜백은 디버그 `EV` 로그만 남기고 버린다. 작업이 5 s 시간 초과되면 Android 스택이 아직 바쁜 상태이므로 다음 작업을 보내지 않고 그 연결을 끊김으로 처리한다(`close()` → 아래 끊김·재연결 경로, 첫 연결 중이면 `Failed(ConnectTimeout)`). 그래서 늦게 온 앞 작업의 콜백이 뒤 작업을 완료시키는 일이 없다. 끊기면 대기 작업을 모두 실패로 끝낸다.
-- **스캔**: `SCAN_MODE_LOW_LATENCY`, 10 s 상한. `ScanFilter` 두 개(OR)를 `Advertising.kt` 상수로 만든다: (a) `setServiceUuid(ParcelUuid(SCALE_SERVICE_UUID))`, (b) `setManufacturerData(SCALE_MANUFACTURER_ID, MANUFACTURER_FILTER_DATA.copyOf(), MANUFACTURER_FILTER_MASK.copyOf())`(A-3, 기기 유형만 맞추고 방송 유형은 가리지 않는다. 바이트 리터럴은 `Advertising.kt`에만 있다, 4.1 A-1). 필터를 통과한 결과도 `isScaleCandidate()`로 한 번 더 거른다(필터 구현 차이 방어). 이름으로 거르지 않는다. 디버그 빌드는 후보마다 처음 한 번 `EV ADV <address> name=<이름|null> mfr=<0xFFFF 값 hex|null> uuids=<목록>`을 남긴다(A-1 Android 반환 확인용, 4.1). 표시 이름은 5.4 `ScanCandidate.name` 규칙.
+- **스캔**: `SCAN_MODE_LOW_LATENCY`, 10 s 상한. `ScanFilter` 두 개(OR)를 `Advertising.kt` 상수로 만든다: (a) `setServiceUuid(ParcelUuid(SCALE_SERVICE_UUID))`, (b) `setManufacturerData(SCALE_MANUFACTURER_ID, MANUFACTURER_FILTER_DATA.copyOf(), MANUFACTURER_FILTER_MASK.copyOf())`(A-3, 기기 유형만 맞추고 방송 유형은 가리지 않는다. 바이트 리터럴은 `Advertising.kt`에만 있다, 4.1 A-1). 필터를 통과한 결과도 `isScaleCandidate()`로 한 번 더 거른다(필터 구현 차이 방어). 이름으로 거르지 않는다. **필터 없는 스캔 전환(F-TAB-1, 2026-11-03 하네스 추천(잠정, 사용자 최종 검토 대기))**: `BluetoothAdapter.isOffloadedFilteringSupported()`가 false면 처음부터 필터 없이(`startScan(null, …)`) 스캔하고, true면 필터 스캔을 시작해 `SCAN_FALLBACK_MS`(6 s, 재시작 간격과 같음) 동안 후보가 0이면 스캐너를 멈추고 필터 없이 다시 시작해 남은 4 s를 돈다(전체 10 s 상한 그대로). 필터 없는 결과는 위 `isScaleCandidate()`가 거른다. 한 번 전환하면 프로세스가 사는 동안 다음 스캔도 처음부터 필터 없이 한다(스캔마다 재시작하면 30 s 5회 제한을 넘길 수 있다). 대가: 필터 없는 스캔은 주변 BLE 광고를 모두 앱으로 올려 CPU·배터리를 조금 더 쓰지만 S2 화면에서 10 s만 돈다. Android 8.1+는 화면이 꺼지면 필터 없는 스캔을 멈추는데, 이 앱의 스캔은 S2 전경에서만 하고 재연결은 스캔이 아니라 `connectGatt`라 영향이 없다. 진단 로그(디버그): `EV scan start filter=on|off offload=<bool>`, `EV scan switch filter=off: …`, `EV scan stop hits=<결과 수, 후보 아님 포함> candidates=<후보 수>`. 근거: Lenovo TB-9707F(Android 12, `mMaxScanFilters: 0`)에서 필터 스캔 8회 결과 0건, 같은 시점 OS 설정은 저울을 찾음(`_workspace/04_device_results.md` F-TAB-1). 대안: (1) 필터 없이만 스캔 — 오프로드 지원 기기에서 배터리 이득을 버림 (2) 시간 전환만 — 미지원 기기에서 6 s를 늘 버림 (3) `bondedDevices`에서 저울을 후보로 — 광고를 보지 않아 저울이 켜져 있는지·RSSI를 모르고 OS 본딩 여부에 기대므로 넣지 않음(전환으로도 못 찾는 기기가 나오면 다시 본다). 디버그 빌드는 후보마다 처음 한 번 `EV ADV <address> name=<이름|null> mfr=<0xFFFF 값 hex|null> uuids=<목록>`을 남긴다(A-1 Android 반환 확인용, 4.1). 표시 이름은 5.4 `ScanCandidate.name` 규칙.
 - **연결 순서(GATT-1)**: `connectGatt` → `discoverServices` → FFF0/FFF1/FFF2 확인(없으면 `Failed(ServiceNotFound)`. G-7 서비스 `5833ff01-…`는 있든 없든 무시하고 구독·읽기·쓰기하지 않는다) → `requestMtu(247)`(실패해도 진행, MTU 23으로 기록) → FFF1 알림 켜기 → `Connected` 내보냄 → `ReadUnit`(실패·시간 초과면 `onUnitReadFailed()`. 응답의 unitRaw가 00/01 밖이면 환원기가 `unitReadFailed = true`로 둔다, 5.3) → `ReadBattery` → `ReadTimer` → 0x2A24·0x2A26 읽기(실패해도 연결 유지, `modelMismatch`는 경고만) → 읽은 값으로 `Connected(device.copy(modelNumber, firmwareRevision, disReadDone = true))`를 한 번 더 내보낸다(읽기 실패면 해당 값 null). 이 두 번째 `Connected`는 연결 전이가 아니다: 9.4 `BrewAnnouncement`·9.2 `ConnectEvent.Connected`는 `ConnectionUi` 종류가 바뀔 때만 내므로 다시 나가지 않는다. `connectGatt`부터 알림 구독까지 10 s를 넘으면 `close()` 후 `Failed(ConnectTimeout)`. `ReadTimer` 응답은 `status.scaleTimer`만 채우고 `timerEvents`로 내지 않는다. 컨트롤러는 이 값을 앱 상태와 맞추는 데에만 쓴다(8.2). protocol.md 1절 GATT-1도 같은 순서다(0x05 뒤 0x02 읽기).
 - **명령 응답 대기**: `send()`는 명령 `Mutex` 안에서 인코딩 → 길이가 MTU−3을 넘으면 `PayloadTooLarge` → 대기 키 등록 → FFF2 쓰기(로컬 쓰기 완료 `onCharacteristicWrite`는 GATT 큐 진행에만 쓰고 명령 성공으로 보지 않는다) → 응답 대기. Read 명령(opcode 02)과 Write 명령(opcode 03) 모두 `responseKey()`가 같은 FFF1 프레임을 `responseTimeoutMs` 동안 기다린다(G-1a, G-5 확정. 실측 응답 128~304 ms). 응답은 대개 무게 프레임 뒤에 붙어 같은 알림으로 온다(F-10). WriteAck `success=false`는 `Rejected`, 시간 초과는 `Timeout`, 대기 중 끊김은 `Disconnected`. 재시도하지 않는다(C-W-2). 대기 키는 완료·시간 초과·끊김·호출 코루틴 취소(`finally`) 때 제거한다. 대기 키가 없을 때 온 응답 프레임은 어떤 `send()`도 완료하지 않고 수신 경로의 환원기에만 들어간다. 프로토콜에 순번이 없어, 다음 같은 명령의 대기 키가 등록된 뒤 늦게 온 앞 응답은 구분할 수 없다. 이 한계는 받아들인다(명령은 하나씩만 나가므로 값은 같은 종류의 최신 응답이다).
 - **수신 경로**: FFF1 알림 → 디버그 `RX` 로그 → `FrameReassembler.feed` → 프레임마다 (1) 대기 중 응답과 키가 맞으면 완료 (2) `ScaleStateReducer.onFrame` → `ScaleReading`이면 `readings`로 낸다 (3) `TimerState(op = Notify)`면 `timerEvents`로 낸다(v1.0.4에서는 오지 않음). 한 알림의 프레임은 들어온 순서대로 처리하고 순서에 기대지 않는다(배터리가 무게보다 앞일 수 있다). `ScaleFrame.Unknown`(예: cmd 0x04)과 `DecodeError`는 디버그 `EV` 로그만 남기고 버린다. 상태·대기 응답·연결을 바꾸지 않는다.
@@ -874,7 +874,7 @@ data class BrewSamplesEntity(@PrimaryKey val sessionId: Long, val blob: ByteArra
 - `room { schemaDirectory("$projectDir/schemas") }`. 스키마 버전을 올릴 때마다 `Migration`과 `MigrationTestHelper` 테스트를 더한다. `fallbackToDestructiveMigration`은 쓰지 않는다.
 - 비율은 저장하지 않고 `finalWeightGrams / doseGrams`로 계산한다.
 - 기본 레시피(사용자 결정 2026-10-28): `AppDatabase`를 만드는 빌더 함수가 항상 `RoomDatabase.Callback.onCreate`를 단다. 이 콜백이 아래 `DefaultRecipes.all`을 `recipes` 테이블에 넣는다(`stepsJson`은 저장소와 같은 `Json`으로, `createdAtEpochMs`는 생성 시각). `onCreate`는 DB 파일이 처음 생길 때 한 번만 불린다. 그래서 사용자가 지운 기본 레시피는 다시 생기지 않고, 앱 업데이트·마이그레이션도 레시피를 더하지 않는다. 테스트도 같은 빌더를 써서 시드 경로를 함께 검증한다(메모리 DB도 `onCreate`가 불린다). 이름은 사용자 데이터라 문자열 리소스로 번역하지 않는다.
-- 시드 값 변경(2026-11-02 P2, 하네스 추천(잠정, 사용자 최종 검토 대기)): V60 기본·6888에 기다리기 단계를 넣었다(아래 표). 코드에서 시드는 `app/src/main/java/com/timemoredot/app/data/AppDatabase.kt`의 `buildAppDatabase`가 다는 `RoomDatabase.Callback.onCreate` → `seedDefaultRecipes`(`DefaultRecipes.all`을 `recipes`에 삽입)뿐이고, `onCreate`는 `timemore.db` 파일이 처음 생길 때 한 번만 불린다. 스키마는 바뀌지 않으므로 `AppDatabase` version 1, `1.json` identityHash `6d9f61fa4f808273048039f7ba96e8a3` 그대로이고 `Migration`을 더하지 않는다(앱 미배포라 설치된 사용자 DB가 없다). 대가: 이미 DB가 있는 개발 기기·에뮬레이터는 옛 V60(2단계)·6888(4단계)을 그대로 갖는다. 새 시드를 보려면 앱 데이터를 지운다(`adb shell pm clear com.timemoredot.app`, 또는 앱 정보 → 저장공간 → 데이터 삭제). 지우면 기록·레시피·저장 기기 주소도 함께 지워진다. debug 데모 모드는 따로 `timemore_demo.db`를 쓰므로 처음 데모를 열 때 새 시드로 만든다(10.1). 배포 뒤에 시드를 바꿀 때는 이 방식을 쓰지 않는다(이미 있는 행을 고치는 `Migration`이 필요).
+- 시드 값 변경(2026-11-02 P2, 사용자 확정 2026-11-03): V60 기본·6888에 기다리기 단계를 넣었다(아래 표). 코드에서 시드는 `app/src/main/java/com/timemoredot/app/data/AppDatabase.kt`의 `buildAppDatabase`가 다는 `RoomDatabase.Callback.onCreate` → `seedDefaultRecipes`(`DefaultRecipes.all`을 `recipes`에 삽입)뿐이고, `onCreate`는 `timemore.db` 파일이 처음 생길 때 한 번만 불린다. 스키마는 바뀌지 않으므로 `AppDatabase` version 1, `1.json` identityHash `6d9f61fa4f808273048039f7ba96e8a3` 그대로이고 `Migration`을 더하지 않는다(앱 미배포라 설치된 사용자 DB가 없다). 대가: 이미 DB가 있는 개발 기기·에뮬레이터는 옛 V60(2단계)·6888(4단계)을 그대로 갖는다. 새 시드를 보려면 앱 데이터를 지운다(`adb shell pm clear com.timemoredot.app`, 또는 앱 정보 → 저장공간 → 데이터 삭제). 지우면 기록·레시피·저장 기기 주소도 함께 지워진다. debug 데모 모드는 따로 `timemore_demo.db`를 쓰므로 처음 데모를 열 때 새 시드로 만든다(10.1). 배포 뒤에 시드를 바꿀 때는 이 방식을 쓰지 않는다(이미 있는 행을 고치는 `Migration`이 필요).
 
 ```kotlin
 // :app data/DefaultRecipes.kt — id = 0, 마지막 단계 targetGrams == waterGrams, finishAtSec는 아래 끝 시각 표, 단계 valveOpen은 아래 밸브 표(밸브 없는 레시피는 모두 null)
@@ -1841,6 +1841,8 @@ internal object VariantHooks {
 | 2026-11-02 | 0, 1, 2.2, 8.1, 8.3, 9.1, 10, 10.1 | P2(하네스 추천(잠정, 사용자 최종 검토 대기)): V60 기본·6888에 기다리기 단계 `("0:40까지 기다리기", 60, 40)`을 1단계 다음에 넣음(V60 3단계, 6888 5단계), 시드만 바꾸고 DB 버전 1·identityHash 그대로, 개발 기기는 `pm clear` 뒤 새 시드, P2 범위 밖 같은 모양(6888 2·3차 뒤, 테츠 카스야 기본) 기록. 10.1 디버그 데모 저울 새 절(사용자 지시): testFixtures 바이트 수준 저울 흉내 + `:core:ble` debug 가짜 transport를 실제 `BleScaleClient`에, 진입 = debug 런처 별칭 `DemoLauncher`, 데모 prefs·DB 분리, release 제외 확인 명령, 계측 테스트 의존성(2.2), 결정 표 D1~D7(하네스 추천(잠정)). 8.1 `TimemoreApp.container` `by lazy`, 9.1 debug 별칭 예외. P1(가로 밸브 칸 한 줄)은 ui-design 4.11만 바뀌고 이 문서 계약은 그대로. 마일스톤 FIX-6·DEMO-1~3 추가, M8·M9·M10 조건 문구, M9·M10·M11 의존에 FIX-6 | `_workspace/run_meta.json` P1·P2·P3, `_workspace/03_report_wf_f65760f7-857.md`, 사용자 지시(2026-11-02) |
 | 2026-11-02 | 9.1 | P7(하네스 추천(잠정, 사용자 최종 검토 대기)): S8 `isBackEnabled` = `hasUnsavedChanges || state == Saving`. 저장 중 뒤로 가기로 화면을 떠나 저장 결과를 잃지 않게 한다(M10 리뷰, wf_1db05a96-4f1). 되돌리는 비용 낮음(조건 한 줄) |
 | 2026-11-03 | 4.1, 4.2, 5.3, 5.4, 7.2, 8.1, 9.2 | 프로브 B(`_workspace/04_device_results.md`) 반영, 결정은 모두 하네스 추천(잠정, 사용자 최종 검토 대기): F-B4-1 자동 시작 확인 구간 500 ms·t₀ 소급·급감 취소(`autoStartConfirmNanos`·`weightDropGrams`), O-B8-1 무게 급감 시 유량 창 비움, C-MC-1 응답 짝짓기 "쓰기 직전 시각 이후 수신"·짝 없는 응답 로그·화면 안내 없음, A-5 첫 연결 133 + 화이트리스트 방송 → `PairingModeMaybe` 안내(`ScanCandidate.broadcastType`, `GattError.whitelistAdvertising`), F-B2-1 즉시 거부(500 ms 미만)도 영구 거부·`onResume`에서 `deniedOnce` 지움. A-1 Android·C-0B-2a 확정으로 `TODO(device)` 제거, 4.1에서 A-1·A-5 행 삭제(4.2로). 마일스톤 FIX-7·FIX-8·FIX-9 | `_workspace/run_meta.json` P14~P18, `04_device_b_B4.log`·`B8.log`·`F5_B1_B10.log` |
+| 2026-11-03 | 8.3 | P2(V60 기본·6888 기다리기 단계, 시드만 수정) 사용자 확정. 잠정 표시를 확정으로 바꿈. 내용 변경 없음 |
+| 2026-11-03 | 6 | F-TAB-1(Lenovo TB-9707F 스캔 결과 0건): 오프로드 필터 미지원이면 처음부터, 지원이면 필터 스캔 6 s 후보 0일 때 필터 없는 스캔으로 전환(프로세스 동안 유지), 스캔 진단 `EV` 로그 3종. 하네스 추천(잠정, 사용자 최종 검토 대기). 마일스톤 FIX-10 | `_workspace/04_device_results.md` F-TAB-1·F-TAB-2 |
 
 ## 13. Android 공식 스킬 점검 (android-skills 1.0.18, 2026-10-29)
 

diff --git a/_workspace/04_device_results.md b/_workspace/04_device_results.md
@@ -116,3 +116,28 @@
 - **FIX deniedOnce 잔존 — 통과(adb).** 플래그 해제 + `pm grant`(설정에서 허용 대응) 뒤 앱 복귀 → "연결됨", `permission.xml` deniedOnce=false.
 - 미확인: F-F5-1 첫 연결 페어링 모드 안내(이 저울과 연결한 적 없는 폰 필요).
 - `svc power stayon false`로 복원(Fold5). Fold8은 연결되지 않아 미복원.
+
+## 수정판 재확인 (Fold8 SM-F971N Android 17, 2026-11-03 22:12~22:17, 로그 `04_device_b_F8_R1.log`, 해석 `F8_R1_parse.txt`)
+
+- **FIX 권한 막다른 화면(F-B2-1) — 통과(adb).** `user-fixed` + 앱 pref 삭제 상태에서 "권한 허용" 탭 → 85 ms 만에 `permanent=true` 판정, "설정 열기"로 바뀜.
+- **FIX deniedOnce 잔존 — 통과(adb).** 허용 뒤 복귀 시 `permission.xml` deniedOnce=false.
+- 재연결: 저울이 절전으로 꺼져 있는 동안 재연결 6회(연결 콜백 없음) → 사용자가 저울을 켜자 133 1회 후 연결(mtu 247), 10.00 Hz.
+- **정상 붓기 — 통과.** 영점(+156.4 s) 뒤 +159.65 s 1.7 g부터 단조 증가, +160.14 s `SetTimer(Start)`(첫 초과 뒤 0.48 s). 완료 +193.2 s `SetTimer(Stop)`.
+- **유량(O-B8-1) — 통과(화면).** 저장 뒤 새 추출 화면에서 서버를 들어 −254.7 g일 때 화면 유량 0.0 g/s, 타이머 00:00.0(`04_device_shots/F8_R1_end.png`). 들어 올릴 때 손 압력 튐(207→225 g) 뒤 −249.8 g에도 SetTimer 송신 없음.
+- **들어 올림 자동 시작(F-B4-1)** — 로그에 '영점 뒤 컵 들어 올림' 구간이 없음(첫 물체를 올린 뒤 영점·붓기로 바로 진행). Fold5에서 통과했고 판정 로직은 순수 Kotlin(`core/brew`)이라 기기와 무관.
+- `svc power stayon false`로 복원(Fold8, 원래 값 0).
+- **들어 올림 자동 시작(F-B4-1) — 통과(Fold8 추가 시험, 22:18).** logcat 버퍼를 `04_device_b_F8_R1b.log`로 받음. 물체(약 246 g) 영점(`030D`) 뒤 손 압력 튐 13.3·7.1·0.2·16.7 g → −1.8 → −245.9 g. 영점 이후 `SetTimer` 송신 없음.
+
+## F-TAB 태블릿 스캔 결과 0건 (Lenovo TB-9707F, Android 12 / SDK 31, 2026-11-03)
+
+- **F-TAB-1 증상:** S2 찾기 10 s × 8회 모두 결과 0건. `dumpsys bluetooth_manager`: "Total number of results: 0", 필터 2개(ServiceUuid FFF0 / ManufacturerId 65535 data [0,1] mask [0,-1]), LOW_LATENCY. 같은 시점 OS 블루투스 설정은 `TIMEMORE_Dot`(페어링 모드)을 찾아 본딩까지 완료. Fold5(Android 16)·Fold8(Android 17)은 같은 필터로 찾음. 권한 BLUETOOTH_SCAN(neverForLocation)·CONNECT 허용, 위치 켜짐.
+- 원인 가설: 이 기기는 `mMaxScanFilters: 0`(하드웨어 오프로드 필터 미지원). 스택의 소프트웨어 필터 경로에서 결과가 누락되는 OEM 사례. 앱 로그에는 스캔 기록이 없어 직접 확인은 못 함(진단 로그 추가).
+- 수정(FIX-10, 하네스 추천(잠정) P19): 오프로드 미지원이면 처음부터 필터 없는 스캔, 지원 기기는 필터 스캔 6 s 후보 0이면 필터 없이 전환. 앱이 `isScaleCandidate`로 거름. 디버그 로그 `EV scan start filter=… offload=…`, `EV scan switch filter=off`, `EV scan stop hits=… candidates=…`.
+- **F-TAB-2:** 다른 기기에 연결돼 있으면 새 기기에서 안 보임(Fold8 Pourline이 백그라운드 자동 재연결로 저울을 잡고 있었음). S2 `ScanEmpty` 설명에 다른 휴대폰 앱·블루투스 끄기, 처음이면 페어링 모드 안내(P20).
+- 판정: **실기기 재확인 대기.** 재확인 절차: Fold8·Fold5의 Pourline과 블루투스를 끄고, TB-9707F에 새 debug APK 설치 → `adb logcat -s TimemoreBle` 켠 채 찾기 → `EV scan start filter=off offload=false`, `EV ADV <주소> …`, 후보 표시 확인. Fold5에서 `filter=on offload=true` 뒤 전환 없이 찾는지(회귀) 확인.
+
+### F-TAB 재확인 (Lenovo TB-9707F Android 12, 수정판, 2026-11-03 23:13, `04_device_b_TAB_scan2.log`)
+- `EV scan start filter=on offload=true` → 0.4 s 뒤 `EV ADV 60:D8:77:XX:XX:XX name=TIMEMORE_Dot mfr=0101 uuids=fff0` → `scan stop hits=22 candidates=1` → 연결(mtu 247), 10 Hz 수신.
+- **가설 정정:** 이 기기는 오프로드 필터를 지원한다(`offload=true`). `dumpsys`의 `mMaxScanFilters: 0`은 판단 근거가 못 됐다. 이번에는 필터 스캔으로 바로 찾았으므로 필터 없는 스캔 전환 경로는 실기기에서 실행되지 않았다(단위 테스트만).
+- 앞선 0건의 원인은 저울이 광고를 하지 않던 상태로 보는 것이 더 맞다: (1) Fold8 Pourline의 백그라운드 자동 재연결이 저울을 잡고 있었고, (2) 페어링 모드에서는 태블릿 OS 블루투스 설정이 페어링하며 연결을 잡고 있었을 수 있다. 앱 로그가 없던 시점(태블릿 `persist.log.tag=Settings`로 앱 로그가 막혀 있었음)이라 확정 불가.
+- 판정: 검색·연결 **통과**. 필터 없는 스캔 전환은 방어 코드로 유지(FIX-10, 실기기 미실행). F-TAB-2 안내 문구는 화면 미확인.
